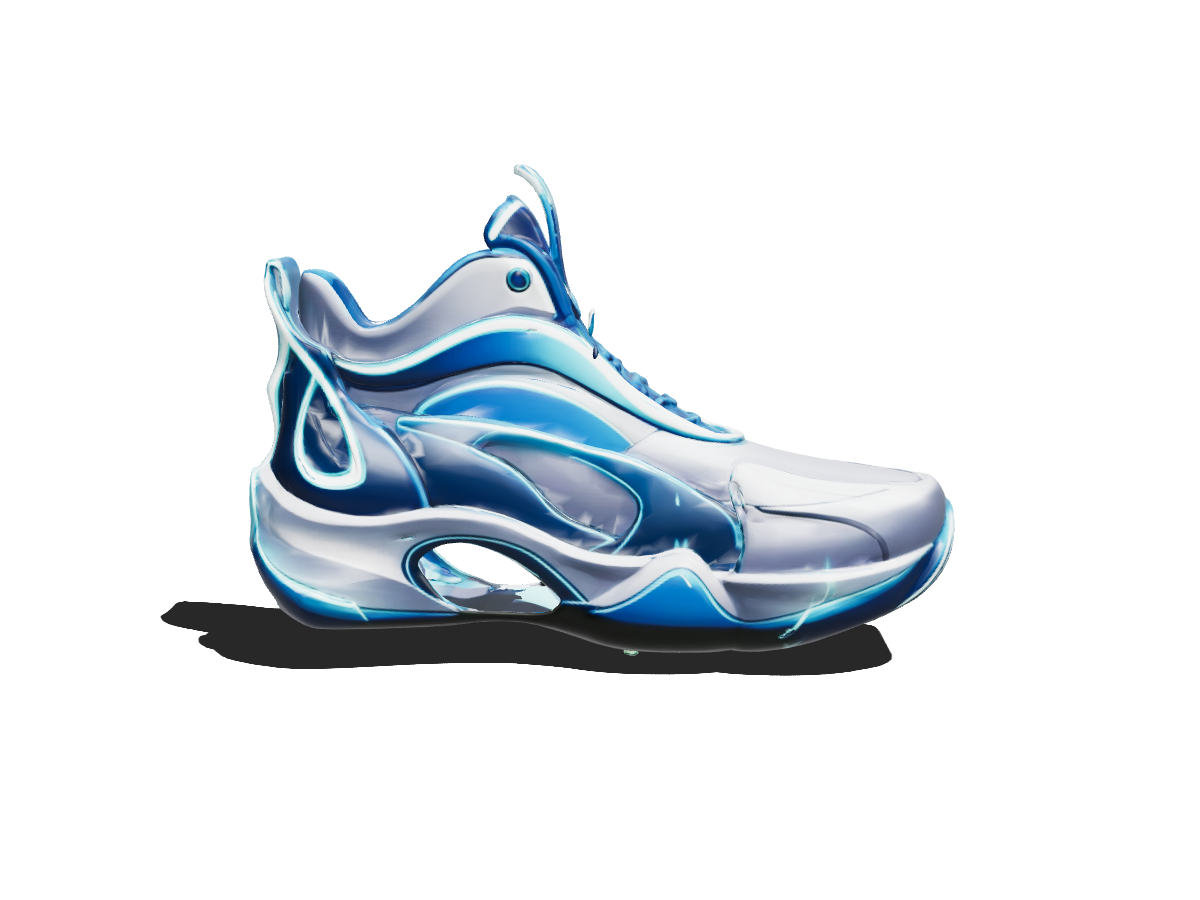
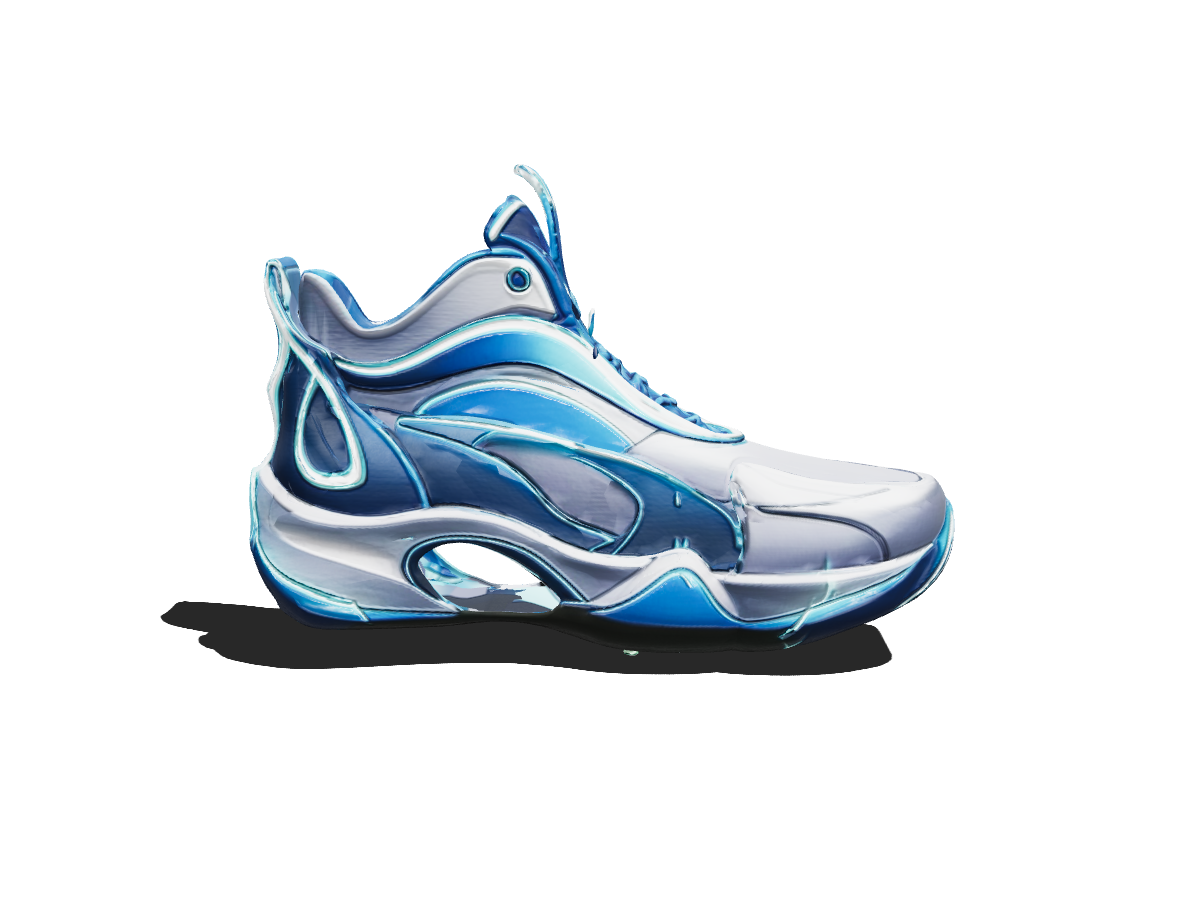
More 3D detail on HI-1 and TRK-1; test fixes
- models that ship with colour only get derived maps at load: normal
  (Sobel on luminance), roughness (matte body, glossy trims) and an
  emissive mask so the piping glows
- 8x anisotropic filtering on all shoe textures
- home: cool rim light, 2048 shadow map on desktop
- re-rendered the six HI-1 / TRK-1 product shots with the new detail
- shop: #hi1 / #trk1 links now jump to the section once it's built
- phones: hide overview hotspot labels so they don't overlap

Changed region(s): [[0.185, 0.1867, 0.8017, 0.7467]]

diff --git a/js/shoe.js b/js/shoe.js
@@ -19,6 +19,86 @@ const TINT_GLSL = (v) => `
     ${v} = max(mat3(1.0, 1.0, 1.0, 0.956, -0.272, -1.106, 0.621, -0.647, 1.703) * yiq * uTintLight, 0.0);
   }`;
 
+/* ── detail pass for models that ship with only a colour texture ──
+   Derives the maps they're missing from that texture, once, at load:
+   - normal map from luminance (Sobel), so printed panels and seams catch light
+   - roughness map: matte body, glossier on bright saturated trims
+   - emissive mask: the bright, saturated piping glows */
+const DETAIL_SIZE = 1024;
+function deriveMaps(image, { bump = 1.5, roughness = 0.6, glow = 0 }) {
+  const N = DETAIL_SIZE;
+  const c = document.createElement('canvas');
+  c.width = c.height = N;
+  const g = c.getContext('2d', { willReadFrequently: true });
+  g.drawImage(image, 0, 0, N, N);
+  const src = g.getImageData(0, 0, N, N).data;
+
+  const lum = new Float32Array(N * N), sat = new Float32Array(N * N), val = new Float32Array(N * N);
+  for (let i = 0, p = 0; i < N * N; i++, p += 4) {
+    const r = src[p] / 255, gg = src[p + 1] / 255, b = src[p + 2] / 255;
+    const mx = Math.max(r, gg, b), mn = Math.min(r, gg, b);
+    lum[i] = 0.299 * r + 0.587 * gg + 0.114 * b;
+    val[i] = mx;
+    sat[i] = mx > 0 ? (mx - mn) / mx : 0;
+  }
+
+  const make = () => { const d = g.createImageData(N, N); return d; };
+  const nrm = make(), rgh = make(), emi = make();
+  const at = (x, y) => lum[((y + N) % N) * N + ((x + N) % N)];
+  for (let y = 0; y < N; y++) {
+    for (let x = 0; x < N; x++) {
+      const i = y * N + x, p = i * 4;
+      // Sobel gradient of luminance as height
+      const dx = (at(x + 1, y - 1) + 2 * at(x + 1, y) + at(x + 1, y + 1)) - (at(x - 1, y - 1) + 2 * at(x - 1, y) + at(x - 1, y + 1));
+      const dy = (at(x - 1, y + 1) + 2 * at(x, y + 1) + at(x + 1, y + 1)) - (at(x - 1, y - 1) + 2 * at(x, y - 1) + at(x + 1, y - 1));
+      let nx = -dx * bump, ny = -dy * bump, nz = 1;
+      const inv = 1 / Math.hypot(nx, ny, nz);
+      nrm.data[p] = (nx * inv * 0.5 + 0.5) * 255;
+      nrm.data[p + 1] = (ny * inv * 0.5 + 0.5) * 255;
+      nrm.data[p + 2] = (nz * inv * 0.5 + 0.5) * 255;
+      nrm.data[p + 3] = 255;
+
+      const trim = Math.min(1, Math.max(0, (sat[i] * val[i] - 0.35) * 3)); // bright + saturated
+      const grain = (Math.random() - 0.5) * 0.06;                         // micro-variation
+      const r = Math.min(1, Math.max(0.08, roughness - trim * 0.35 + (0.5 - lum[i]) * 0.12 + grain));
+      rgh.data[p] = rgh.data[p + 1] = rgh.data[p + 2] = r * 255;
+      rgh.data[p + 3] = 255;
+
+      const e = glow ? trim : 0;
+      emi.data[p] = src[p] * e; emi.data[p + 1] = src[p + 1] * e; emi.data[p + 2] = src[p + 2] * e;
+      emi.data[p + 3] = 255;
+    }
+  }
+
+  const toTex = (data, srgb) => {
+    const cv = document.createElement('canvas');
+    cv.width = cv.height = N;
+    cv.getContext('2d').putImageData(data, 0, 0);
+    const t = new THREE.CanvasTexture(cv);
+    t.flipY = false; // glTF texture convention
+    t.colorSpace = srgb ? THREE.SRGBColorSpace : THREE.NoColorSpace;
+    t.anisotropy = 8;
+    return t;
+  };
+  return { normal: toTex(nrm), rough: toTex(rgh), emissive: glow ? toTex(emi, true) : null };
+}
+
+function addDetail(material, detail) {
+  if (!material.map || material.normalMap || !material.map.image) return;
+  const maps = deriveMaps(material.map.image, detail);
+  material.normalMap = maps.normal;
+  material.normalScale.set(1, -1); // glTF's green-channel convention
+  material.roughnessMap = maps.rough;
+  material.roughness = 1;
+  material.metalness = 0;
+  if (maps.emissive) {
+    material.emissiveMap = maps.emissive;
+    material.emissive.set(0xffffff);
+    material.emissiveIntensity = detail.glow;
+  }
+  material.needsUpdate = true;
+}
+
 function addTint(material, uniforms) {
   material.onBeforeCompile = (shader) => {
     Object.assign(shader.uniforms, uniforms);
@@ -62,6 +142,9 @@ export function loadShoe(shoeDef, onProgress = () => {}) {
       shoe.traverse((o) => {
         if (!o.isMesh) return;
         o.castShadow = true;
+        // sharper textures at grazing angles (most of what a scroll-past camera sees)
+        Object.values(o.material).forEach((v) => { if (v?.isTexture) v.anisotropy = 8; });
+        if (shoeDef.detail) addDetail(o.material, shoeDef.detail);
         if (!hasVariants) addTint(o.material, tint);
         o.userData.mat = o.material;
         tris += (o.geometry.index ? o.geometry.index.count : o.geometry.attributes.position.count) / 3;

diff --git a/js/data.js b/js/data.js
@@ -23,6 +23,7 @@ export const SHOES = [
   {
     id: 'hi1', name: 'HI-1', type: 'MID-TOP COURT', file: 'assets/hi1.glb', bytes: 6343172,
     flip: true, // the auto toe/heel check misreads a high collar
+    detail: { bump: 2.2, roughness: 0.55, glow: 0.35 }, // ships with colour only: derive relief, roughness, glow
 
     blurb: 'Collar up to the ankle bone. Built for courts, car parks and anywhere you land hard.',
     credit: '“Sneaker” by ShaderSculptor, generated with Sloyd, CC-BY 4.0',
@@ -41,6 +42,7 @@ export const SHOES = [
   },
   {
     id: 'trk1', name: 'TRK-1', type: 'CHUNKY TRAINER', file: 'assets/trk1.glb', bytes: 5642576,
+    detail: { bump: 2.4, roughness: 0.72, glow: 0.9 },
     blurb: 'Too much shoe, on purpose. A stacked sole and reflective piping for walking home at 3am.',
     credit: '“A sleek, edgy sneaker with angular shapes, neon colors” by PurpleShade3D, generated with Sloyd, CC-BY 4.0',
     steps: [

diff --git a/js/home.js b/js/home.js
@@ -71,9 +71,13 @@ camera.position.set(...STEPS[0].cam);
 const flash = new THREE.DirectionalLight(0xffffff, 2.6);
 flash.position.set(2.5, 6, 3);
 flash.castShadow = true;
-flash.shadow.mapSize.set(1024, 1024);
+flash.shadow.mapSize.setScalar(coarse ? 1024 : 2048);
+flash.shadow.bias = -0.0003;
 Object.assign(flash.shadow.camera, { left: -3, right: 3, top: 3, bottom: -3, near: 0.5, far: 20 });
-scene.add(flash, new THREE.AmbientLight(0xffffff, 0.25));
+// cool rim from behind: pulls the silhouette off the paper and shows surface relief
+const rim = new THREE.DirectionalLight(0xdfe8ff, 1.3);
+rim.position.set(-4, 3.5, -4.5);
+scene.add(flash, rim, new THREE.AmbientLight(0xffffff, 0.25));
 
 const floor = new THREE.Mesh(new THREE.PlaneGeometry(30, 30), new THREE.ShadowMaterial({ opacity: 0.85, color: 0x0d0d0d }));
 floor.rotation.x = -Math.PI / 2;

diff --git a/style.css b/style.css
@@ -480,6 +480,7 @@ s { text-decoration-color: var(--red); text-decoration-thickness: .14em; }
   .buy__price b { font-size: 26px; }
   .buy .btn--buy { padding: 10px 12px; }
   .spot span { font-size: 9px; }
+  .spot.is-overview span { display: none; } /* four labels don't fit on a phone: numbers only until a step is active */
   .manifesto li { font-size: 8.4vw; }
   .stage__corner--bl { display: none; }
   .spec { grid-template-columns: 1fr; }

diff --git a/js/shop.js b/js/shop.js
@@ -56,3 +56,5 @@ SHOES.forEach((shoe, n) => {
 // jump links: shop.html#hi1
 const jump = $('#jump');
 jump?.append(...SHOES.map((s) => Object.assign(document.createElement('a'), { href: `#${s.id}`, textContent: `[ ${s.name} ]` })));
+// sections are built here, after the browser already looked for the #anchor — so jump now
+if (location.hash) document.getElementById(location.hash.slice(1))?.scrollIntoView({ behavior: 'instant' });
